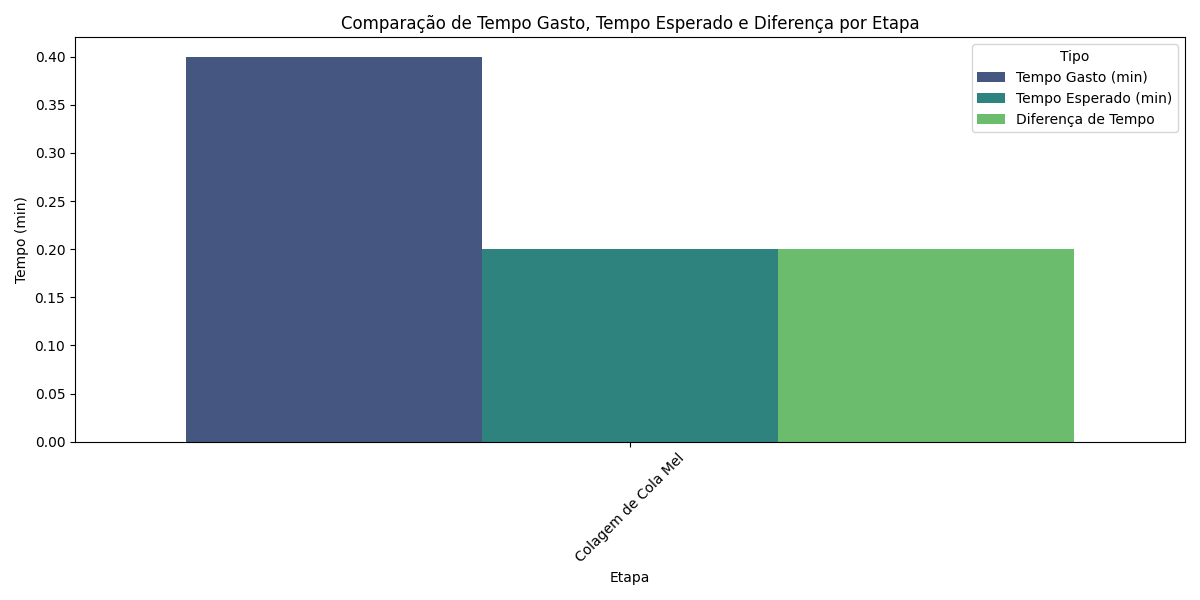
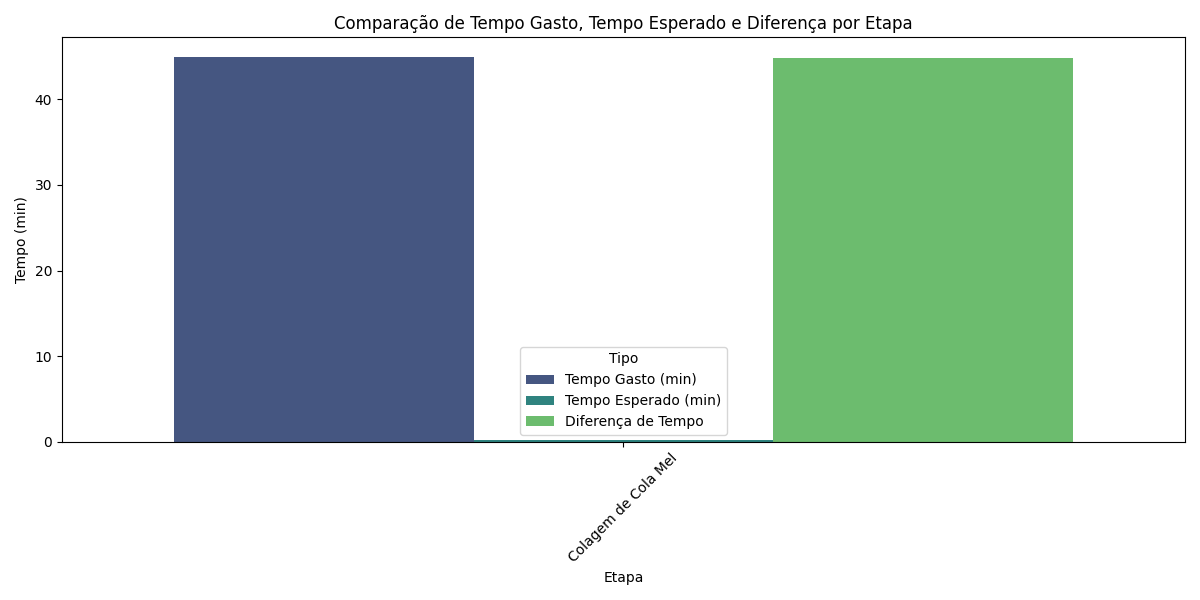
graficos na main

diff --git a/main.py b/main.py
@@ -2,6 +2,7 @@ from transcrever_audio import transcrever_audio
 from inico import organiza_inicio
 from fim import organiza_fim
 from gerar_pdf import gerar_pdf, ler_csv
+from graficos import gerar_graficos
 import os
 import shutil
 import time
@@ -102,6 +103,9 @@ def main():
             salvar_csv(relatorios, CSV_FILE)  # Salva em CSV
         else:
             print("⚠ Nenhum dado disponível para gerar o relatório de eficiência.")
+        caminho_csv = 'data/relatorios/relatorio_eficiencia.csv'
+        gerar_graficos(caminho_csv)
+
     except Exception as e:
         print(f"❌ Erro durante a execução: {e}")
 
